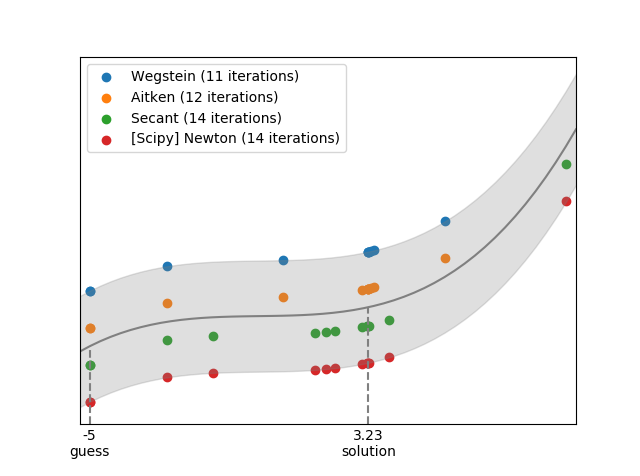
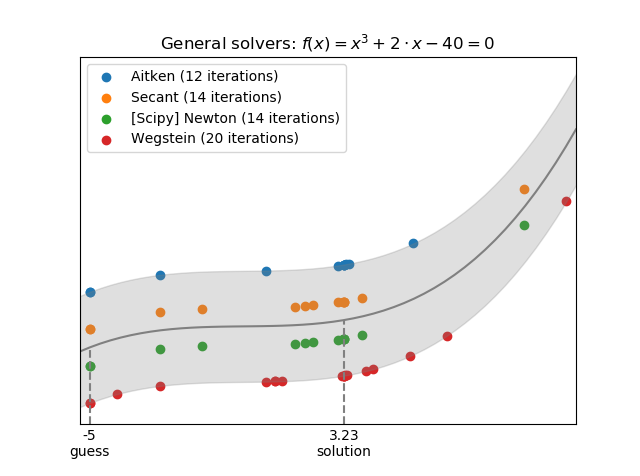
update

diff --git a/test.py b/test.py
@@ -20,7 +20,7 @@ x_wegstein = flx.bounded_wegstein(p, x0, x1)
 p.archive('Wegstein')
 x_aitken = flx.bounded_aitken(p, x0, x1)
 p.archive('Aitken')
-p.plot()
+p.plot(r'Bounded solvers: $f(x) = x^3 + 2 \cdot x - 40 = 0$')
 
 p = flx.Profiler(f)
 x_guess = -5
@@ -32,7 +32,7 @@ x_secant = flx.secant(p, x_guess)
 p.archive('Secant')
 x_newton = opt.newton(p, x_guess)
 p.archive('[Scipy] Newton')
-p.plot()
+p.plot(r'General solvers: $f(x) = x^3 + 2 \cdot x - 40 = 0$')
 
 # Note that x = 40/x^2 - 2/x is the same
 # objective function as x**3 - 40 + 2*x = 0
@@ -44,6 +44,6 @@ x_wegstein = flx.wegstein(p, x_guess)
 p.archive('Wegstein')
 x_aitken = flx.aitken(p, x_guess)
 p.archive('Aitken')
-p.plot(markbounds=False)
+p.plot(r'Iterative solvers: $f(x) = \frac{40}{x^2} - \frac{2}{x} = x$', markbounds=False)
 
 # ^ Fixed iteration is non-convergent for this equation

diff --git a/flexsolve/profiler.py b/flexsolve/profiler.py
@@ -84,7 +84,7 @@ class Profiler:
             plt.scatter(xs, ys, label=f"{archive.name} ({archive.size} iterations)")
             offset -= step
 
-    def plot(self, args=(), markbounds=True):
+    def plot(self, title=None, args=(), markbounds=True):
         plt.figure()
         archives = self.archives
         archives.sort(key=lambda x: x.size)
@@ -142,6 +142,7 @@ class Profiler:
                        color='grey')
             plt.xticks([x_solution], ['solution'])
         
+        if title: plt.title(title)
         plt.ylim([y_lb, y_ub])
         plt.xlim([xs[0], xs[-1]])
         plt.tick_params(axis='both', which='both', length=0)

diff --git a/README.rst b/README.rst
@@ -89,7 +89,7 @@ different solvers.:
     >>> x_aitken = flx.bounded_aitken(p, x0, x1)
     3.2252404627883218
     >>> p.archive('Aitken')
-    >>> p.plot()
+    >>> p.plot(r'Bounded solvers: $f(x) = 0 = x^3 + 2 \cdot x - 40$')
 
 .. image:: https://raw.githubusercontent.com/yoelcortes/flexsolve/master/docs/images/bounded_solvers_example.png
 
@@ -109,7 +109,7 @@ different solvers.:
     >>> opt.newton(p, x_guess)
     3.2252404627918065
     >>> p.archive('[Scipy] Newton')
-    >>> p.plot()
+    >>> p.plot(r'General solvers: $f(x) = 0 = x^3 + 2 \cdot x - 40$')
 
 .. image:: https://raw.githubusercontent.com/yoelcortes/flexsolve/master/docs/images/fixed_point_solvers_example.png
 
@@ -126,7 +126,8 @@ different solvers.:
     >>> flx.aitken(p, x_guess)
     3.2252404627250075
     >>> p.archive('Aitken')
-    >>> p.plot(markbounds=False)
+    >>> p.plot(r'General solvers: $f(x) = x = \frac{40}{x^2} - \frac{2}{x}$',
+    ...        markbounds=False)
     >>> # Fixed iteration is non-convergent for this equation,
     >>> # so we do not include it here
 
